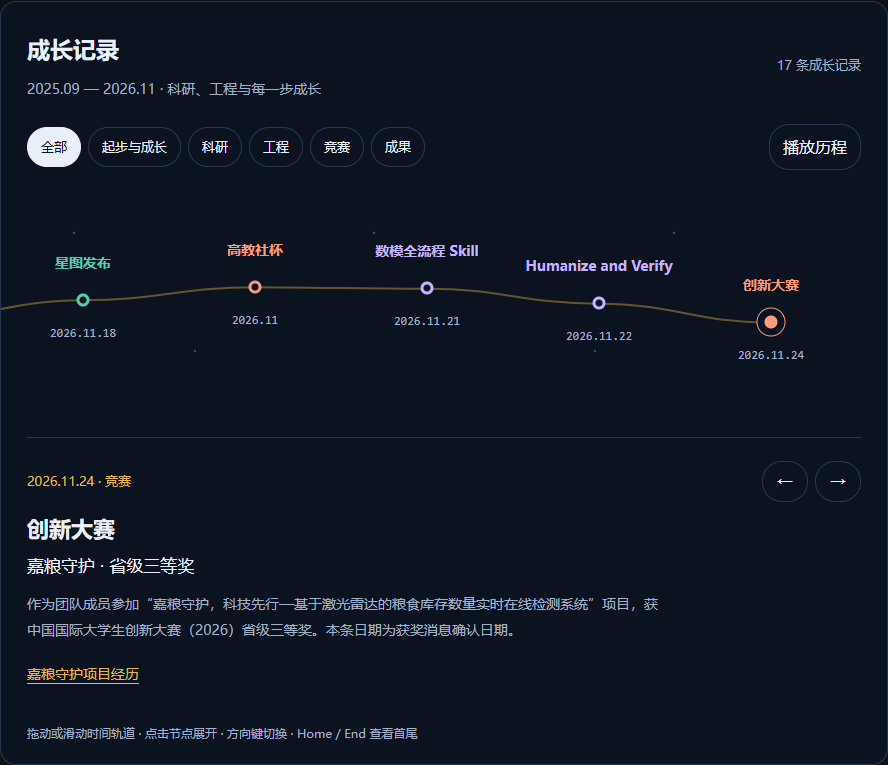
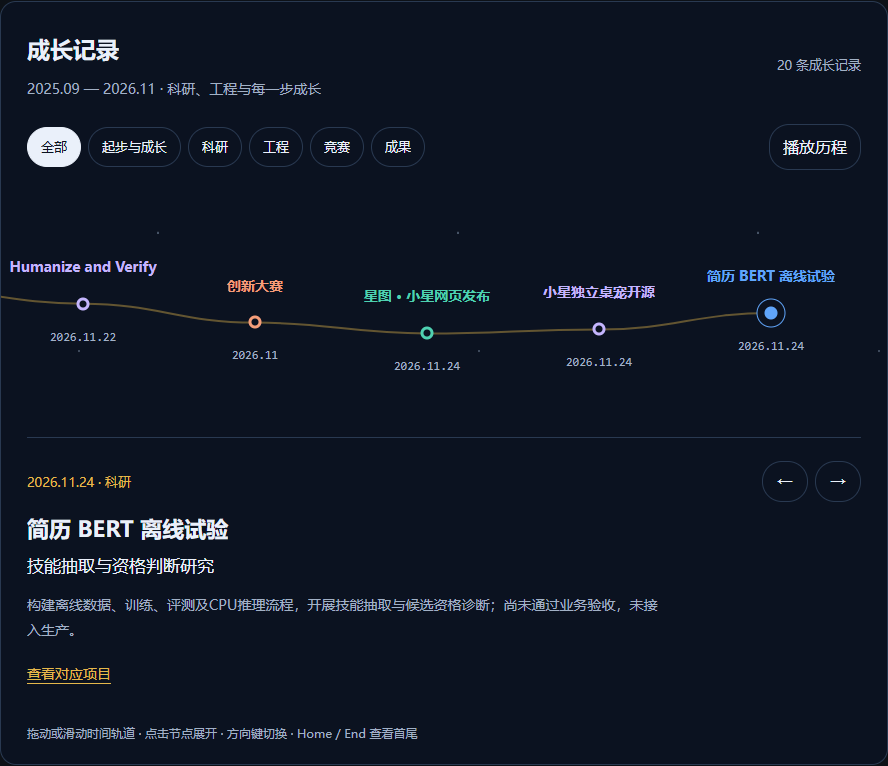
Refresh capability graph and timeline with Xiaoxing and offline BERT research

diff --git a/index.html b/index.html
@@ -34,4 +34,4 @@ body a{color:#0969da}body a:focus-visible{outline:2px solid currentColor;outline
 <picture><source media="(prefers-color-scheme: dark)" srcset="assets/badges/neo4j.svg"/><img alt="Neo4j" src="assets/badges/neo4j-light.svg"/></picture>
 <picture><source media="(prefers-color-scheme: dark)" srcset="assets/badges/docker.svg"/><img alt="Docker" src="assets/badges/docker-light.svg"/></picture>
 <picture><source media="(prefers-color-scheme: dark)" srcset="assets/badges/latex.svg"/><img alt="LaTeX" src="assets/badges/latex-light.svg"/></picture>
-</div></section><section id="education"><h2>教育背景</h2><p><b>河南工业大学　计算机科学与技术（本科）｜2025.09—2029.06（预计）</b></p><p><a href="https://cs.haut.edu.cn/">复杂性科学研究院</a>「<a href="https://cs.haut.edu.cn/info/1421/8304.htm">飞鸟创新实验班</a>」2025 级首届成员，导师刘广恩。</p><p>学生工作：信息学院第二十三届学生会学习部成员；明德书院校运会铅球队队长。</p><p>社会实践：参加学校组织的暑期“三下乡”与寒假返乡宣传。</p></section><section aria-label="公开经历与技术能力三维关系图" class="graph-section" id="ability-graph"><div class="graph-bar"><div><h2>项目与技术能力图谱</h2><p>拖动旋转 · 滚轮缩放 · 点击节点查看对应经历</p></div><div class="graph-controls"><button aria-pressed="false" id="graph-pause" type="button">暂停旋转</button><button id="graph-reset" type="button">复位</button><button aria-label="放大图谱" id="graph-zoom-in" type="button">＋</button><button aria-label="缩小图谱" id="graph-zoom-out" type="button">－</button></div></div><div class="graph-body"><div class="graph-viewport" id="graph-viewport"><div class="graph-message" id="graph-message">正在加载空间图谱…</div></div><aside aria-live="polite" class="graph-panel"><span class="node-type" id="node-type">公开项目与实际使用技术</span><h3 id="node-name">王佳豪</h3><p id="node-description">选择节点可查看项目与技术的对应关系。下方保留完整的职责、技术和成果介绍。</p><a href="#projects" id="node-link">查看项目经历</a><div class="node-shortcuts"><button data-select="xingtu" type="button">星图</button><button data-select="eeg" type="button">脑电研究</button><button data-select="aic" type="button">多模态检测</button><button data-select="quantum" type="button">量子编译</button><button data-select="landslide" type="button">边坡哨兵</button><button data-select="changtu" type="button">畅途灵控</button><button data-select="class" type="button">Class</button><button data-select="mcm-skill" type="button">数模 Skill</button><button data-select="jialiang" type="button">嘉粮守护</button><button data-select="humanize-skill" type="button">写作与代码 Skill</button></div></aside></div><div class="graph-filter"><button aria-pressed="true" data-filter="all" type="button">全部</button><button aria-pressed="false" data-filter="research" type="button">科研</button><button aria-pressed="false" data-filter="engineering" type="button">工程</button><button aria-pressed="false" data-filter="algorithms" type="button">算法</button><small>连线表示项目与技术关联，不表示能力评分</small></div></section><section id="research"><h2>科研经历</h2><article class="project" id="project-eeg"><h3>跨被试脑电情感识别</h3><p class="label"><b>科研进行中</b>　｜　角色：独立研究</p><p class="label"><b>技术栈：</b>Python · PyTorch · Mamba / SSM · Transformer · 图结构建模</p><p>面向脑电情感识别中的跨被试泛化问题，开展深度时空特征建模研究。</p><ul><li>基于状态空间模型、注意力机制与图结构建模技术开展研究，完成数据处理、训练评估及对照实验。</li><li>在 DEAP、SEED 数据集上开展 LOSO 跨被试评估，维护实验配置、结果归档与分析记录，推进论文撰写。</li></ul></article></section><section class="project-no-art" id="projects"><h2>项目经历</h2><article class="entry" id="project-ssvep"><h3>AIC · 脑电信号分类（SSVEP）</h3><p>围绕稳态视觉诱发电位（SSVEP）脑电信号分类，开展信号预处理、特征建模、分类器训练与评测；负责实验对照、结果复核及可复现归档。比赛进行中。</p></article><article class="project" id="project-xingtu"><h3><a href="https://github.com/Talent-Star-Map/XINGTU">星图 · 岗位能力图谱动态演化与分析系统</a></h3><p class="label"><b>团队项目 · 持续开发与迭代</b>　｜　角色：业务模块、三维图谱与交互开发，系统验证及部署发布</p><p class="label"><b>参赛经历：</b>“揭榜挂帅”赛项、第三届“讯飞杯”AI+教育方向。</p><p class="label"><b>技术栈：</b>React · TypeScript · FastAPI · SQLAlchemy · MySQL · MongoDB · Neo4j · Docker</p><p>面向岗位技能分析与人岗匹配的平台，持续迭代岗位信息、能力图谱、简历管理和匹配分析；团队近期新增 AI 模拟面试、反馈报告 PDF 导出及企业认证审核功能。</p><ul><li>负责求职端个人中心、简历管理及企业信息相关模块开发。</li><li>开发个人经历三维技术图谱，将简历经历、技术节点与原文证据关联，支持节点选择、经历筛选及旋转缩放；完成鉴权接口联调与生产部署。</li><li>在简历与岗位描述解析中实现大模型结构化信息抽取、原文证据校验与规则校验，结合多源信息比对及置信度评分，识别缺乏原文依据的技能信息。</li><li>承担测试文档编制、论文补充实验与结果复核，核对数据划分、实验记录及论文图表的一致性。</li><li>完成新服务器选型与存储扩容，部署前端、后端、三类数据库和采集程序共 6 个容器；核验数据库迁移结果，配置备份并编写团队 SSH 自动连接工具。</li><li>完成首页、连续星河登录动画与全站品牌统一，覆盖三角色导航、深浅主题及移动端；构建前端发布镜像，核验线上静态资源和三角色真实登录后完成部署，保留可回滚版本。</li></ul><p><a href="https://47.120.76.16/">在线平台</a></p><p>新增小星连续透明视频网页交互与媒体带宽优化；另开展离线简历 BERT 技能抽取、资格判断及评测流程，当前尚未接入生产。</p></article><article class="project" id="project-landslide"><h3><a href="https://github.com/Dsegnr/landslide-sentinel-web">边坡哨兵 · 滑坡监测与分级预警系统</a></h3><p class="label"><b>团队项目 · 独立完成软件系统开发</b></p><p class="label"><b>技术栈：</b>Python · React · TypeScript · FastAPI · SQLAlchemy · 三维可视化</p><p>围绕边坡监测场景，结合监测数据分析与 Web 系统，提供监测点管理、设备状态、分级预警、历史记录及三维地形展示。</p><ul><li>除硬件外，独立完成前端、后端、数据库及核心软件算法开发，打通监测数据处理、分级预警、历史记录与三维可视化，完成系统测试及部署。</li><li>整理独立 Web 源码快照与演示说明；三维场景用于监测与地形关系展示。相关公开数据成果见下方 ScienceDB 条目。</li></ul><p><a href="https://github.com/Dsegnr/landslide-sentinel-web/blob/main/docs/DEMO.md">演示与本地运行说明</a></p></article><article class="project" id="project-changtu"><h3><a href="https://github.com/Dsegnr/changtu-lingkong">畅途灵控 · 多路口交通协同与 GIS 决策工作台</a></h3><p class="label"><b>路网仿真、控制验证与工作台开发 · 阶段归档</b></p><p class="label"><b>技术栈：</b>Python · SUMO · SuperMap GIS · React · TypeScript</p><p>延续早期畅途灵控方向，研究多路口交通信号协同，构建策略对照、地图回放与证据追溯工作台。</p><ul><li>构建连通路网仿真，跟踪同车跨路口身份与全程耗时；比较固定、压力与联合控制，分析下游接收空间、回堵及逐车损益。</li><li>开发地图回放、相位时间线、方案对照及任务记录；实现资源路径隔离、哈希校验、任务存储及 SuperMap 空间查询适配。</li><li>公开正式前端及可迁移模块源码；完整回放资产和第三方 SDK 未分发，现场验证尚未完成。</li></ul></article><article class="project" id="project-aic"><h3><a href="https://github.com/Dsegnr/aic2026-multimodal-detection">城市场景视觉多模态目标检测</a></h3><p class="label"><b>AIC 省赛三等奖</b>　｜　角色：参赛成员</p><p class="label"><b>技术栈：</b>PyTorch · D-FINE · YOLO · 多模态融合</p><p>全球校园人工智能算法精英大赛“面向城市场景的视觉多模态目标检测”赛题项目。</p><ul><li>围绕可见光、红外与深度信息开展多模态目标检测研究，完成数据对齐、特征融合与模型评测；获省赛三等奖。</li></ul></article><article class="project" id="project-humanize"><h3><a href="https://github.com/Dsegnr/humanize-and-verify">Humanize and Verify · 代码与写作成果复核 Skill</a></h3><p class="label"><b>个人构建 · 已开源</b>　｜　Agent Skill · 中文 / English</p><p>将软件登记、课程工程与科研写作中的实践经验整理成独立 Agent Skill，覆盖代码注释整理、中英文表达改进与交付材料一致性复核。</p><ul><li>设计代码、写作、交付材料三个模块，保留程序行为、技术事实和真实来源；提供安装说明、案例与合成示例。</li></ul></article><article class="project" id="project-secops"><h3><a href="https://github.com/Dsegnr/sentinel-secops">Sentinel · 安全研判与防御工作台</a></h3><p class="label"><b>个人项目 · 原型持续完善中</b></p><p class="label"><b>技术栈：</b>Python · FastAPI · Jinja2 · PowerShell · pytest</p><p>面向个人与小团队的本地安全研判工具原型，提供命令行和 Web 工作台，集成公开情报查询、证据报告、主机安全基线检查及资产与告警管理。</p><ul><li>实现域名／URL、IP 与邮件分析、结构化报告生成、SHA-256 证据清单导出，以及案件归档、资产与告警管理；支持 Windows 安全基线比对、加固脚本审阅与可选的大模型报告解释。</li><li>公开版本包含程序与测试，不含个人知识库、案件或实际配置。</li></ul></article><article class="project" id="project-quantum"><h3><a href="https://github.com/Dsegnr/ccf-quantum-compiler">噪声自适应量子编译器</a></h3><p class="label"><b>CCF 量旋杯 · 算法赛道</b>　｜　角色：算法实现与评测</p><p class="label"><b>技术栈：</b>Python · Cirq · SABRE · NISQ</p><p>基于 SABRE 映射算法，面向 NISQ 硬件开展量子线路布局与路由的噪声自适应优化。</p><ul><li>实现噪声感知路由、多策略初始布局与正反向交替优化；公开题评测综合评分 0.7550。</li></ul></article><article class="project" id="project-modeling"><h3><a href="https://github.com/Dsegnr/math-modeling">数学建模与工具</a></h3><p class="label"><b>技术栈：</b>Python · 几何定位 · 时序预测 · 蒙特卡洛模拟 · 优化建模</p><div class="modeling-event"><h4><a href="https://github.com/Dsegnr/math-modeling/tree/main/cumcm-2026">高教社杯 2026 · B 题</a></h4><p class="label"><b>河南赛区省级一等奖</b></p><p>无线电干扰源的快速自动定位与清除。担任队长，围绕测向定位、主动观测点设计、覆盖证书与顺路清除开展建模与算法实现；六局正式测试中，问题三清除 35/35 个源，问题四清除 37/37 个源。</p></div><div class="modeling-event"><h4><a href="https://github.com/Dsegnr/math-modeling/tree/main/apmcm-2026">APMCM 2026 · A 题</a></h4><p class="label"><b>中文赛项 · 本科组二等奖</b></p><p>自来水厂水质预测与评估。担任队长，负责问题建模、算法实现、结果验证与论文统稿，运用时序预测、时滞分析和风险评价方法完成水质建模。</p></div><div class="modeling-event"><h4><a href="https://github.com/Dsegnr/math-modeling/tree/main/huashubei-2026">华数杯 2026 · A 题</a></h4><p class="label"><b>本科生组全国三等奖</b></p><p>微构体中填充导电介质的仿真优化。担任队长，负责建模、算法实现、结果验证与论文统稿，结合三维连通判定、蒙特卡洛模拟、置信区间估计与成本优化求解。</p></div><div class="modeling-event" id="project-modeling-skill"><h4 id="project-mcm-skill"><a href="https://github.com/Dsegnr/mcm-contest-command">数模竞赛全流程 Skill · mcm-contest-command</a></h4><p class="label"><b>个人构建 · 已开源</b>　｜　Python · SQLite · AI Skill</p><p>基于数模竞赛实践，自主构建并开源覆盖读题、选题、建模、实验验证、论文写作与提交整理的 AI Skill；配套 Python CLI，以 SQLite 维护实验、结论、审查与决策记录，并通过文件哈希检查结果与提交材料的变动。</p><p>提供安装说明与可运行示例；Windows / Linux、Python 3.10 / 3.12 四组自动测试通过。</p></div></article><article class="project" id="project-class"><h3><a href="https://github.com/Dsegnr/Class">Class · 班级事务空间</a></h3><p class="label"><b>个人项目 · 需求、全栈开发与部署维护</b></p><p class="label"><b>技术栈：</b>React · TypeScript · FastAPI · SQLAlchemy · SQLite / MySQL</p><p>面向班级材料收集、审核与日常协作的小型 Web 应用。</p><ul><li>完成任务发布、材料提交与审核、原件批量导出、抽签、值日和通知功能，承担需求整理、前后端开发、测试与部署维护。</li><li>公开脱敏源码与虚构示例；正式站点需授权登录，账号密码、真实名册及学生材料不公开。</li></ul><p><a href="https://47.105.102.3/collect/">班级站点（需授权登录）</a></p></article><article class="project" id="project-jialiang"><h3>嘉粮守护 · 粮食库存数量实时在线检测系统</h3><p class="label"><b>中国国际大学生创新大赛（2026）省级三等奖</b>　｜　角色：团队成员</p><p>参赛项目全称为“嘉粮守护，科技先行—基于激光雷达的粮食库存数量实时在线检测系统”，参加高教主赛道本科生创意组。团队以激光雷达三维测量和智能视频分析为核心，面向粮仓库存数量检测、异常预警与远程监管需求开展项目。</p></article><article class="project" id="project-xinling"><h3><a href="https://github.com/Dsegnr/xinling-mental-health">心聆 · 青少年心理健康多模态智能筛查平台</a></h3><p class="label"><b>方案设计</b>　｜　角色：项目负责人</p><p class="label"><b>方案涉及技术：</b>脑电采集 · 跨被试建模 · 联邦学习</p><p>面向青少年心理健康筛查需求，设计多模态智能筛查平台方案。</p><ul><li>负责项目整体方案与技术路线设计，完成 22 页项目计划书。</li></ul></article><article class="project" id="project-xiaoxing"><h3><a href="https://github.com/Dsegnr/xiaoxing-desktop">小星 · 独立桌面伴侣</a></h3><p>独立构建 Electron 透明视频桌宠，提供16段正式动作、共享状态机与播放器；支持大小、暂停、自动散步、托盘恢复及动作包配置，无需星图账号、后端或 API 密钥。</p></article></section><picture class="art-divider"><source media="(prefers-color-scheme:dark)" srcset="assets/separator.svg"/><img alt="脑电波形与知识关联装饰" height="125" loading="lazy" src="assets/separator-light.svg" width="1200"/></picture><section id="research-data"><h2>科研数据成果</h2><p>以<b>第一作者</b>在 Science Data Bank 发布《三峡库区白家包滑坡2017–2024年监测数据与双时间尺度分级预警方法的复现数据与代码》（V1，2026.10.14），整理监测资料、处理结果与复现材料。</p><p><a href="https://doi.org/10.57760/sciencedb.014lj">DOI：10.57760/sciencedb.014lj</a> · <a href="https://www.scidb.cn/detail?dataSetId=7bc8827743a441cc9d881e3f7d181a16">数据集页面</a></p></section><section id="honors"><h2>竞赛与荣誉</h2><ul class="honor"><li id="honor-innovation">中国国际大学生创新大赛（2026）：省级三等奖｜嘉粮守护 · 团队成员</li><li id="honor-cumcm">高教社杯全国大学生数学建模竞赛：河南赛区省级一等奖｜2026　<a href="https://github.com/Dsegnr/math-modeling/tree/main/cumcm-2026">论文与代码</a></li><li>蓝桥杯全国软件和信息技术专业人才大赛：C/C++ 程序设计大学 B 组河南赛区一等奖、全国总决赛三等奖｜2026</li><li>全球校园人工智能算法精英大赛（AIC）多模态目标检测赛项：省赛三等奖｜2026</li><li>APMCM 亚太地区大学生数学建模竞赛（中文赛项）：本科组二等奖｜2026　<a href="https://github.com/Dsegnr/math-modeling/tree/main/apmcm-2026">论文与代码</a></li><li>“华数杯”全国大学生数学建模竞赛：本科生组全国三等奖｜2026　<a href="https://github.com/Dsegnr/math-modeling/tree/main/huashubei-2026">论文与代码</a></li><li>“挑战杯”院赛二等奖｜2026</li><li>河南工业大学 2025 年度“三好学生”｜2026.05</li></ul></section><section><h2>证书</h2><ul><li>全国大学英语四级（CET-4）：497 分。</li><li>工业互联网平台开发工程师（中级）。</li></ul></section><section id="software-copyright"><h2>软件著作权</h2><p>5 项计算机软件著作权登记申请已由中国版权保护中心受理，其中 3 项列第一著作权人，2 项列第六著作权人。</p><ul><li>星图智能简历解析与简历管理软件 V1.0 ｜ <strong>第一著作权人</strong> ｜ 2026.11.02</li><li>滑坡多传感器融合与涌浪风险估算软件 V1.0 ｜ <strong>第一著作权人</strong> ｜ 2026.11.02</li><li>边坡哨兵滑坡灾害协同感知与预警系统 V1.0 ｜ <strong>第一著作权人</strong> ｜ 2026.11.02</li><li>企业岗位能力图谱演化分析与智能匹配系统 V1.0 ｜ 第六著作权人 ｜ 2026.11.02</li><li>面向求职者的智能人岗匹配与诊断系统 V1.0 ｜ 第六著作权人 ｜ 2026.11.03</li></ul></section><section><h2>其他参赛经历</h2><ul><li id="competition-market">“正大杯”全国大学生市场调查与分析大赛：个人知识赛网考87分合格，团队实践赛筹备中。</li><li>AIC 脑电信号分类（SSVEP）｜参赛中｜2026</li><li>中国高校计算机大赛 · 团体程序设计天梯赛｜2026 参赛经历</li></ul></section><section><h2>公开仓库与作品</h2><ul><li><a href="https://github.com/Dsegnr/humanize-and-verify">humanize-and-verify</a>　独立 Agent Skill：代码、中英文写作与交付材料复核。</li><li><a href="https://github.com/Dsegnr/changtu-lingkong">changtu-lingkong</a>　畅途灵控 · 多路口交通协同与 GIS 决策工作台</li><li><a href="https://github.com/Dsegnr/Class">Class</a>　Class · 班级事务空间</li><li><a href="https://github.com/Dsegnr/landslide-sentinel-web">landslide-sentinel-web</a>　边坡哨兵 Web：多传感器监测、分级预警与三维情景展示；仓库附在线演示及普通账号。</li><li><a href="https://github.com/Dsegnr/sentinel-secops">sentinel-secops</a>　Sentinel 本地安全研判与防御工具原型，包含 CLI、Web 工作台与测试。</li><li><a href="https://github.com/Dsegnr/aic2026-multimodal-detection">aic2026-multimodal-detection</a>　AIC 省赛三等奖项目：训练、推理、评测与历史实验配置。</li><li><a href="https://github.com/Talent-Star-Map/XINGTU">Talent-Star-Map/XINGTU</a>　星图 · 岗位能力图谱动态演化与分析系统（团队仓库，本人为开发者之一）</li><li><a href="https://github.com/Dsegnr/mcm-contest-command">mcm-contest-command</a>　个人构建的数模竞赛全流程 AI Skill 与 Python CLI，覆盖读题、建模、证据记录、写作与提交检查。</li><li><a href="https://github.com/Dsegnr/math-modeling">math-modeling</a>　数学建模竞赛作品：高教社杯、APMCM 与华数杯的论文、代码、数据与结果表</li><li><a href="https://github.com/Dsegnr/ccf-quantum-compiler">ccf-quantum-compiler</a>　噪声自适应量子编译器（2026 CCF 量旋杯 · 算法赛道，含 21 页作品说明文档）</li><li><a href="https://github.com/Dsegnr/xinling-mental-health">xinling-mental-health</a>　心聆 · 青少年心理健康多模态智能筛查平台（项目计划书、LaTeX 源码与配图）</li><li><a href="https://github.com/Dsegnr/Dsegnr.github.io">Dsegnr.github.io</a>　本主页与简历的源码</li></ul></section><section aria-labelledby="growth-heading" class="gt" id="growth-timeline"><div class="gt-header"><div><h2 id="growth-heading">成长记录</h2><p>2025.09 — 2026.11 · 科研、工程与每一步成长</p></div><span class="gt-count" data-gt="count">17 条成长记录</span></div><div class="gt-toolbar" data-gt="toolbar" hidden=""><div aria-label="按经历类型筛选" class="gt-filters" data-gt="filters" role="group"></div><button aria-pressed="false" class="gt-play" data-gt="play" type="button">播放历程</button></div><div aria-label="成长时间轨道，可左右滑动" class="gt-scroller" data-gt="scroller" hidden="" tabindex="0"><div aria-label="选择成长节点" class="gt-track" data-gt="track" role="group"></div></div><div aria-atomic="true" aria-live="polite" class="gt-detail" data-gt="detail" hidden="" id="growth-detail"><div class="gt-detail-head"><span class="gt-detail-date" data-gt="date"></span><div class="gt-steps"><button aria-label="上一条经历" class="gt-step" data-gt="previous" type="button">←</button><button aria-label="下一条经历" class="gt-step" data-gt="next" type="button">→</button></div></div><h3 data-gt="title"></h3><p class="gt-subtitle" data-gt="subtitle"></p><p class="gt-description" data-gt="description"></p><a data-gt="link">查看对应经历</a></div><ol class="gt-fallback" data-gt="fallback"><li><time>2025.09</time>　<a href="#education">入学</a>：河南工业大学 · 计算机科学与技术</li><li><time>2025.09</time>　<a href="#project-eeg">脑电研究起步</a>：跨被试脑电情感识别</li><li><time>2026.04</time>　<a href="#education">体育文化节</a>：男子引体向上三等奖</li><li><time>2026.05</time>　<a href="#honors">三好学生</a>：2025 年度校级荣誉</li><li><time>2026.05</time>　<a href="#honors">蓝桥杯省赛</a>：河南赛区一等奖</li><li><time>2026.06</time>　<a href="https://github.com/Dsegnr/math-modeling/tree/main/apmcm-2026">APMCM</a>：中文赛项 · 本科组二等奖</li><li><time>2026.06.17</time>　<a href="#honors">蓝桥杯国赛</a>：全国总决赛三等奖</li><li><time>2026.07.22</time>　<a href="#honors">工业互联网</a>：平台开发工程师（中级）</li><li><time>2026.08</time>　<a href="https://github.com/Dsegnr/math-modeling/tree/main/huashubei-2026">华数杯</a>：本科生组全国三等奖</li><li><time>2026.10.14</time>　<a href="https://doi.org/10.57760/sciencedb.014lj">ScienceDB</a>：第一作者数据成果 · V1</li><li><time>2026.11</time>　<a href="#project-aic">AIC 多模态检测</a>：省赛三等奖</li><li><time>2026.11.02–03</time>　<a href="#software-copyright">五项软著受理</a>：三项列第一著作权人</li><li><time>2026.11.18</time>　<a href="#project-xingtu">星图发布</a>：首页、星河登录与品牌统一</li><li><time>2026.11</time>　<a href="https://github.com/Dsegnr/math-modeling/tree/main/cumcm-2026">高教社杯</a>：河南赛区省级一等奖</li><li><time>2026.11.21</time>　<a href="https://github.com/Dsegnr/mcm-contest-command">数模全流程 Skill</a>：Agent Skill 与 Python CLI 开源</li><li><time>2026.11.22</time>　<a href="#project-humanize">Humanize and Verify</a>：代码与写作成果复核 Skill 开源</li><li><time>2026.11</time>　<a href="#project-jialiang">创新大赛</a>：嘉粮守护 · 省级三等奖</li></ol><p class="gt-help" data-gt="help" hidden="">拖动或滑动时间轨道 · 点击节点展开 · 方向键切换 · Home / End 查看首尾</p></section><footer>王佳豪 · Dsegnr　｜　更新于 2026.11.24</footer></main><script type="importmap">{"imports":{"three":"./vendor/three.module.js"}}</script><script src="assets/ability-graph.js" type="module"></script><script src="assets/growth-timeline.js" type="module"></script></body></html>
+</div></section><section id="education"><h2>教育背景</h2><p><b>河南工业大学　计算机科学与技术（本科）｜2025.09—2029.06（预计）</b></p><p><a href="https://cs.haut.edu.cn/">复杂性科学研究院</a>「<a href="https://cs.haut.edu.cn/info/1421/8304.htm">飞鸟创新实验班</a>」2025 级首届成员，导师刘广恩。</p><p>学生工作：信息学院第二十三届学生会学习部成员；明德书院校运会铅球队队长。</p><p>社会实践：参加学校组织的暑期“三下乡”与寒假返乡宣传。</p></section><section aria-label="公开经历与技术能力三维关系图" class="graph-section" id="ability-graph"><div class="graph-bar"><div><h2>项目与技术能力图谱</h2><p>拖动旋转 · 滚轮缩放 · 点击节点查看对应经历</p></div><div class="graph-controls"><button aria-pressed="false" id="graph-pause" type="button">暂停旋转</button><button id="graph-reset" type="button">复位</button><button aria-label="放大图谱" id="graph-zoom-in" type="button">＋</button><button aria-label="缩小图谱" id="graph-zoom-out" type="button">－</button></div></div><div class="graph-body"><div class="graph-viewport" id="graph-viewport"><div class="graph-message" id="graph-message">正在加载空间图谱…</div></div><aside aria-live="polite" class="graph-panel"><span class="node-type" id="node-type">公开项目与实际使用技术</span><h3 id="node-name">王佳豪</h3><p id="node-description">选择节点可查看项目与技术的对应关系。下方保留完整的职责、技术和成果介绍。</p><a href="#projects" id="node-link">查看项目经历</a><div class="node-shortcuts"><button data-select="xingtu" type="button">星图</button><button data-select="eeg" type="button">脑电研究</button><button data-select="aic" type="button">多模态检测</button><button data-select="quantum" type="button">量子编译</button><button data-select="landslide" type="button">边坡哨兵</button><button data-select="changtu" type="button">畅途灵控</button><button data-select="class" type="button">Class</button><button data-select="mcm-skill" type="button">数模 Skill</button><button data-select="jialiang" type="button">嘉粮守护</button><button data-select="humanize-skill" type="button">写作与代码 Skill</button><button data-select="xiaoxing" type="button">小星桌宠</button><button data-select="resume-bert" type="button">简历 BERT</button></div></aside></div><div class="graph-filter"><button aria-pressed="true" data-filter="all" type="button">全部</button><button aria-pressed="false" data-filter="research" type="button">科研</button><button aria-pressed="false" data-filter="engineering" type="button">工程</button><button aria-pressed="false" data-filter="algorithms" type="button">算法</button><small>连线表示项目与技术关联，不表示能力评分</small></div></section><section id="research"><h2>科研经历</h2><article class="project" id="project-eeg"><h3>跨被试脑电情感识别</h3><p class="label"><b>科研进行中</b>　｜　角色：独立研究</p><p class="label"><b>技术栈：</b>Python · PyTorch · Mamba / SSM · Transformer · 图结构建模</p><p>面向脑电情感识别中的跨被试泛化问题，开展深度时空特征建模研究。</p><ul><li>基于状态空间模型、注意力机制与图结构建模技术开展研究，完成数据处理、训练评估及对照实验。</li><li>在 DEAP、SEED 数据集上开展 LOSO 跨被试评估，维护实验配置、结果归档与分析记录，推进论文撰写。</li></ul></article></section><section class="project-no-art" id="projects"><h2>项目经历</h2><article class="entry" id="project-ssvep"><h3>AIC · 脑电信号分类（SSVEP）</h3><p>围绕稳态视觉诱发电位（SSVEP）脑电信号分类，开展信号预处理、特征建模、分类器训练与评测；负责实验对照、结果复核及可复现归档。比赛进行中。</p></article><article class="project" id="project-xingtu"><h3><a href="https://github.com/Talent-Star-Map/XINGTU">星图 · 岗位能力图谱动态演化与分析系统</a></h3><p class="label"><b>团队项目 · 持续开发与迭代</b>　｜　角色：业务模块、三维图谱与交互开发，系统验证及部署发布</p><p class="label"><b>参赛经历：</b>“揭榜挂帅”赛项、第三届“讯飞杯”AI+教育方向。</p><p class="label"><b>技术栈：</b>React · TypeScript · FastAPI · SQLAlchemy · MySQL · MongoDB · Neo4j · Docker</p><p>面向岗位技能分析与人岗匹配的平台，持续迭代岗位信息、能力图谱、简历管理和匹配分析；团队近期新增 AI 模拟面试、反馈报告 PDF 导出及企业认证审核功能。</p><ul><li>负责求职端个人中心、简历管理及企业信息相关模块开发。</li><li>开发个人经历三维技术图谱，将简历经历、技术节点与原文证据关联，支持节点选择、经历筛选及旋转缩放；完成鉴权接口联调与生产部署。</li><li>在简历与岗位描述解析中实现大模型结构化信息抽取、原文证据校验与规则校验，结合多源信息比对及置信度评分，识别缺乏原文依据的技能信息。</li><li>承担测试文档编制、论文补充实验与结果复核，核对数据划分、实验记录及论文图表的一致性。</li><li>完成新服务器选型与存储扩容，部署前端、后端、三类数据库和采集程序共 6 个容器；核验数据库迁移结果，配置备份并编写团队 SSH 自动连接工具。</li><li>完成首页、连续星河登录动画与全站品牌统一，覆盖三角色导航、深浅主题及移动端；构建前端发布镜像，核验线上静态资源和三角色真实登录后完成部署，保留可回滚版本。</li></ul><p><a href="https://47.120.76.16/">在线平台</a></p><p>新增小星连续透明视频网页交互与媒体带宽优化；另开展离线简历 BERT 技能抽取、资格判断及评测流程，当前尚未接入生产。</p></article><article class="project" id="project-landslide"><h3><a href="https://github.com/Dsegnr/landslide-sentinel-web">边坡哨兵 · 滑坡监测与分级预警系统</a></h3><p class="label"><b>团队项目 · 独立完成软件系统开发</b></p><p class="label"><b>技术栈：</b>Python · React · TypeScript · FastAPI · SQLAlchemy · 三维可视化</p><p>围绕边坡监测场景，结合监测数据分析与 Web 系统，提供监测点管理、设备状态、分级预警、历史记录及三维地形展示。</p><ul><li>除硬件外，独立完成前端、后端、数据库及核心软件算法开发，打通监测数据处理、分级预警、历史记录与三维可视化，完成系统测试及部署。</li><li>整理独立 Web 源码快照与演示说明；三维场景用于监测与地形关系展示。相关公开数据成果见下方 ScienceDB 条目。</li></ul><p><a href="https://github.com/Dsegnr/landslide-sentinel-web/blob/main/docs/DEMO.md">演示与本地运行说明</a></p></article><article class="project" id="project-changtu"><h3><a href="https://github.com/Dsegnr/changtu-lingkong">畅途灵控 · 多路口交通协同与 GIS 决策工作台</a></h3><p class="label"><b>路网仿真、控制验证与工作台开发 · 阶段归档</b></p><p class="label"><b>技术栈：</b>Python · SUMO · SuperMap GIS · React · TypeScript</p><p>延续早期畅途灵控方向，研究多路口交通信号协同，构建策略对照、地图回放与证据追溯工作台。</p><ul><li>构建连通路网仿真，跟踪同车跨路口身份与全程耗时；比较固定、压力与联合控制，分析下游接收空间、回堵及逐车损益。</li><li>开发地图回放、相位时间线、方案对照及任务记录；实现资源路径隔离、哈希校验、任务存储及 SuperMap 空间查询适配。</li><li>公开正式前端及可迁移模块源码；完整回放资产和第三方 SDK 未分发，现场验证尚未完成。</li></ul></article><article class="project" id="project-aic"><h3><a href="https://github.com/Dsegnr/aic2026-multimodal-detection">城市场景视觉多模态目标检测</a></h3><p class="label"><b>AIC 省赛三等奖</b>　｜　角色：参赛成员</p><p class="label"><b>技术栈：</b>PyTorch · D-FINE · YOLO · 多模态融合</p><p>全球校园人工智能算法精英大赛“面向城市场景的视觉多模态目标检测”赛题项目。</p><ul><li>围绕可见光、红外与深度信息开展多模态目标检测研究，完成数据对齐、特征融合与模型评测；获省赛三等奖。</li></ul></article><article class="project" id="project-humanize"><h3><a href="https://github.com/Dsegnr/humanize-and-verify">Humanize and Verify · 代码与写作成果复核 Skill</a></h3><p class="label"><b>个人构建 · 已开源</b>　｜　Agent Skill · 中文 / English</p><p>将软件登记、课程工程与科研写作中的实践经验整理成独立 Agent Skill，覆盖代码注释整理、中英文表达改进与交付材料一致性复核。</p><ul><li>设计代码、写作、交付材料三个模块，保留程序行为、技术事实和真实来源；提供安装说明、案例与合成示例。</li></ul></article><article class="project" id="project-secops"><h3><a href="https://github.com/Dsegnr/sentinel-secops">Sentinel · 安全研判与防御工作台</a></h3><p class="label"><b>个人项目 · 原型持续完善中</b></p><p class="label"><b>技术栈：</b>Python · FastAPI · Jinja2 · PowerShell · pytest</p><p>面向个人与小团队的本地安全研判工具原型，提供命令行和 Web 工作台，集成公开情报查询、证据报告、主机安全基线检查及资产与告警管理。</p><ul><li>实现域名／URL、IP 与邮件分析、结构化报告生成、SHA-256 证据清单导出，以及案件归档、资产与告警管理；支持 Windows 安全基线比对、加固脚本审阅与可选的大模型报告解释。</li><li>公开版本包含程序与测试，不含个人知识库、案件或实际配置。</li></ul></article><article class="project" id="project-quantum"><h3><a href="https://github.com/Dsegnr/ccf-quantum-compiler">噪声自适应量子编译器</a></h3><p class="label"><b>CCF 量旋杯 · 算法赛道</b>　｜　角色：算法实现与评测</p><p class="label"><b>技术栈：</b>Python · Cirq · SABRE · NISQ</p><p>基于 SABRE 映射算法，面向 NISQ 硬件开展量子线路布局与路由的噪声自适应优化。</p><ul><li>实现噪声感知路由、多策略初始布局与正反向交替优化；公开题评测综合评分 0.7550。</li></ul></article><article class="project" id="project-modeling"><h3><a href="https://github.com/Dsegnr/math-modeling">数学建模与工具</a></h3><p class="label"><b>技术栈：</b>Python · 几何定位 · 时序预测 · 蒙特卡洛模拟 · 优化建模</p><div class="modeling-event"><h4><a href="https://github.com/Dsegnr/math-modeling/tree/main/cumcm-2026">高教社杯 2026 · B 题</a></h4><p class="label"><b>河南赛区省级一等奖</b></p><p>无线电干扰源的快速自动定位与清除。担任队长，围绕测向定位、主动观测点设计、覆盖证书与顺路清除开展建模与算法实现；六局正式测试中，问题三清除 35/35 个源，问题四清除 37/37 个源。</p></div><div class="modeling-event"><h4><a href="https://github.com/Dsegnr/math-modeling/tree/main/apmcm-2026">APMCM 2026 · A 题</a></h4><p class="label"><b>中文赛项 · 本科组二等奖</b></p><p>自来水厂水质预测与评估。担任队长，负责问题建模、算法实现、结果验证与论文统稿，运用时序预测、时滞分析和风险评价方法完成水质建模。</p></div><div class="modeling-event"><h4><a href="https://github.com/Dsegnr/math-modeling/tree/main/huashubei-2026">华数杯 2026 · A 题</a></h4><p class="label"><b>本科生组全国三等奖</b></p><p>微构体中填充导电介质的仿真优化。担任队长，负责建模、算法实现、结果验证与论文统稿，结合三维连通判定、蒙特卡洛模拟、置信区间估计与成本优化求解。</p></div><div class="modeling-event" id="project-modeling-skill"><h4 id="project-mcm-skill"><a href="https://github.com/Dsegnr/mcm-contest-command">数模竞赛全流程 Skill · mcm-contest-command</a></h4><p class="label"><b>个人构建 · 已开源</b>　｜　Python · SQLite · AI Skill</p><p>基于数模竞赛实践，自主构建并开源覆盖读题、选题、建模、实验验证、论文写作与提交整理的 AI Skill；配套 Python CLI，以 SQLite 维护实验、结论、审查与决策记录，并通过文件哈希检查结果与提交材料的变动。</p><p>提供安装说明与可运行示例；Windows / Linux、Python 3.10 / 3.12 四组自动测试通过。</p></div></article><article class="project" id="project-class"><h3><a href="https://github.com/Dsegnr/Class">Class · 班级事务空间</a></h3><p class="label"><b>个人项目 · 需求、全栈开发与部署维护</b></p><p class="label"><b>技术栈：</b>React · TypeScript · FastAPI · SQLAlchemy · SQLite / MySQL</p><p>面向班级材料收集、审核与日常协作的小型 Web 应用。</p><ul><li>完成任务发布、材料提交与审核、原件批量导出、抽签、值日和通知功能，承担需求整理、前后端开发、测试与部署维护。</li><li>公开脱敏源码与虚构示例；正式站点需授权登录，账号密码、真实名册及学生材料不公开。</li></ul><p><a href="https://47.105.102.3/collect/">班级站点（需授权登录）</a></p></article><article class="project" id="project-jialiang"><h3>嘉粮守护 · 粮食库存数量实时在线检测系统</h3><p class="label"><b>中国国际大学生创新大赛（2026）省级三等奖</b>　｜　角色：团队成员</p><p>参赛项目全称为“嘉粮守护，科技先行—基于激光雷达的粮食库存数量实时在线检测系统”，参加高教主赛道本科生创意组。团队以激光雷达三维测量和智能视频分析为核心，面向粮仓库存数量检测、异常预警与远程监管需求开展项目。</p></article><article class="project" id="project-xinling"><h3><a href="https://github.com/Dsegnr/xinling-mental-health">心聆 · 青少年心理健康多模态智能筛查平台</a></h3><p class="label"><b>方案设计</b>　｜　角色：项目负责人</p><p class="label"><b>方案涉及技术：</b>脑电采集 · 跨被试建模 · 联邦学习</p><p>面向青少年心理健康筛查需求，设计多模态智能筛查平台方案。</p><ul><li>负责项目整体方案与技术路线设计，完成 22 页项目计划书。</li></ul></article><article class="project" id="project-xiaoxing"><h3><a href="https://github.com/Dsegnr/xiaoxing-desktop">小星 · 独立桌面伴侣</a></h3><p>独立构建 Electron 透明视频桌宠，提供16段正式动作、共享状态机与播放器；支持大小、暂停、自动散步、托盘恢复及动作包配置，无需星图账号、后端或 API 密钥。</p></article></section><picture class="art-divider"><source media="(prefers-color-scheme:dark)" srcset="assets/separator.svg"/><img alt="脑电波形与知识关联装饰" height="125" loading="lazy" src="assets/separator-light.svg" width="1200"/></picture><section id="research-data"><h2>科研数据成果</h2><p>以<b>第一作者</b>在 Science Data Bank 发布《三峡库区白家包滑坡2017–2024年监测数据与双时间尺度分级预警方法的复现数据与代码》（V1，2026.10.14），整理监测资料、处理结果与复现材料。</p><p><a href="https://doi.org/10.57760/sciencedb.014lj">DOI：10.57760/sciencedb.014lj</a> · <a href="https://www.scidb.cn/detail?dataSetId=7bc8827743a441cc9d881e3f7d181a16">数据集页面</a></p></section><section id="honors"><h2>竞赛与荣誉</h2><ul class="honor"><li id="honor-innovation">中国国际大学生创新大赛（2026）：省级三等奖｜嘉粮守护 · 团队成员</li><li id="honor-cumcm">高教社杯全国大学生数学建模竞赛：河南赛区省级一等奖｜2026　<a href="https://github.com/Dsegnr/math-modeling/tree/main/cumcm-2026">论文与代码</a></li><li>蓝桥杯全国软件和信息技术专业人才大赛：C/C++ 程序设计大学 B 组河南赛区一等奖、全国总决赛三等奖｜2026</li><li>全球校园人工智能算法精英大赛（AIC）多模态目标检测赛项：省赛三等奖｜2026</li><li>APMCM 亚太地区大学生数学建模竞赛（中文赛项）：本科组二等奖｜2026　<a href="https://github.com/Dsegnr/math-modeling/tree/main/apmcm-2026">论文与代码</a></li><li>“华数杯”全国大学生数学建模竞赛：本科生组全国三等奖｜2026　<a href="https://github.com/Dsegnr/math-modeling/tree/main/huashubei-2026">论文与代码</a></li><li>“挑战杯”院赛二等奖｜2026</li><li>河南工业大学 2025 年度“三好学生”｜2026.05</li></ul></section><section><h2>证书</h2><ul><li>全国大学英语四级（CET-4）：497 分。</li><li>工业互联网平台开发工程师（中级）。</li></ul></section><section id="software-copyright"><h2>软件著作权</h2><p>5 项计算机软件著作权登记申请已由中国版权保护中心受理，其中 3 项列第一著作权人，2 项列第六著作权人。</p><ul><li>星图智能简历解析与简历管理软件 V1.0 ｜ <strong>第一著作权人</strong> ｜ 2026.11.02</li><li>滑坡多传感器融合与涌浪风险估算软件 V1.0 ｜ <strong>第一著作权人</strong> ｜ 2026.11.02</li><li>边坡哨兵滑坡灾害协同感知与预警系统 V1.0 ｜ <strong>第一著作权人</strong> ｜ 2026.11.02</li><li>企业岗位能力图谱演化分析与智能匹配系统 V1.0 ｜ 第六著作权人 ｜ 2026.11.02</li><li>面向求职者的智能人岗匹配与诊断系统 V1.0 ｜ 第六著作权人 ｜ 2026.11.03</li></ul></section><section><h2>其他参赛经历</h2><ul><li id="competition-market">“正大杯”全国大学生市场调查与分析大赛：个人知识赛网考87分合格，团队实践赛筹备中。</li><li>AIC 脑电信号分类（SSVEP）｜参赛中｜2026</li><li>中国高校计算机大赛 · 团体程序设计天梯赛｜2026 参赛经历</li></ul></section><section><h2>公开仓库与作品</h2><ul><li><a href="https://github.com/Dsegnr/humanize-and-verify">humanize-and-verify</a>　独立 Agent Skill：代码、中英文写作与交付材料复核。</li><li><a href="https://github.com/Dsegnr/changtu-lingkong">changtu-lingkong</a>　畅途灵控 · 多路口交通协同与 GIS 决策工作台</li><li><a href="https://github.com/Dsegnr/Class">Class</a>　Class · 班级事务空间</li><li><a href="https://github.com/Dsegnr/landslide-sentinel-web">landslide-sentinel-web</a>　边坡哨兵 Web：多传感器监测、分级预警与三维情景展示；仓库附在线演示及普通账号。</li><li><a href="https://github.com/Dsegnr/sentinel-secops">sentinel-secops</a>　Sentinel 本地安全研判与防御工具原型，包含 CLI、Web 工作台与测试。</li><li><a href="https://github.com/Dsegnr/aic2026-multimodal-detection">aic2026-multimodal-detection</a>　AIC 省赛三等奖项目：训练、推理、评测与历史实验配置。</li><li><a href="https://github.com/Talent-Star-Map/XINGTU">Talent-Star-Map/XINGTU</a>　星图 · 岗位能力图谱动态演化与分析系统（团队仓库，本人为开发者之一）</li><li><a href="https://github.com/Dsegnr/mcm-contest-command">mcm-contest-command</a>　个人构建的数模竞赛全流程 AI Skill 与 Python CLI，覆盖读题、建模、证据记录、写作与提交检查。</li><li><a href="https://github.com/Dsegnr/math-modeling">math-modeling</a>　数学建模竞赛作品：高教社杯、APMCM 与华数杯的论文、代码、数据与结果表</li><li><a href="https://github.com/Dsegnr/ccf-quantum-compiler">ccf-quantum-compiler</a>　噪声自适应量子编译器（2026 CCF 量旋杯 · 算法赛道，含 21 页作品说明文档）</li><li><a href="https://github.com/Dsegnr/xinling-mental-health">xinling-mental-health</a>　心聆 · 青少年心理健康多模态智能筛查平台（项目计划书、LaTeX 源码与配图）</li><li><a href="https://github.com/Dsegnr/Dsegnr.github.io">Dsegnr.github.io</a>　本主页与简历的源码</li></ul></section><section aria-labelledby="growth-heading" class="gt" id="growth-timeline"><div class="gt-header"><div><h2 id="growth-heading">成长记录</h2><p>2025.09 — 2026.11 · 科研、工程与每一步成长</p></div><span class="gt-count" data-gt="count">20 条成长记录</span></div><div class="gt-toolbar" data-gt="toolbar" hidden=""><div aria-label="按经历类型筛选" class="gt-filters" data-gt="filters" role="group"></div><button aria-pressed="false" class="gt-play" data-gt="play" type="button">播放历程</button></div><div aria-label="成长时间轨道，可左右滑动" class="gt-scroller" data-gt="scroller" hidden="" tabindex="0"><div aria-label="选择成长节点" class="gt-track" data-gt="track" role="group"></div></div><div aria-atomic="true" aria-live="polite" class="gt-detail" data-gt="detail" hidden="" id="growth-detail"><div class="gt-detail-head"><span class="gt-detail-date" data-gt="date"></span><div class="gt-steps"><button aria-label="上一条经历" class="gt-step" data-gt="previous" type="button">←</button><button aria-label="下一条经历" class="gt-step" data-gt="next" type="button">→</button></div></div><h3 data-gt="title"></h3><p class="gt-subtitle" data-gt="subtitle"></p><p class="gt-description" data-gt="description"></p><a data-gt="link">查看对应经历</a></div><ol class="gt-fallback" data-gt="fallback"><li><time>2025.09</time>　<a href="#education">入学</a>：河南工业大学 · 计算机科学与技术</li><li><time>2025.09</time>　<a href="#project-eeg">脑电研究起步</a>：跨被试脑电情感识别</li><li><time>2026.04</time>　<a href="#education">体育文化节</a>：男子引体向上三等奖</li><li><time>2026.05</time>　<a href="#honors">三好学生</a>：2025 年度校级荣誉</li><li><time>2026.05</time>　<a href="#honors">蓝桥杯省赛</a>：河南赛区一等奖</li><li><time>2026.06</time>　<a href="https://github.com/Dsegnr/math-modeling/tree/main/apmcm-2026">APMCM</a>：中文赛项 · 本科组二等奖</li><li><time>2026.06.17</time>　<a href="#honors">蓝桥杯国赛</a>：全国总决赛三等奖</li><li><time>2026.07.22</time>　<a href="#honors">工业互联网</a>：平台开发工程师（中级）</li><li><time>2026.08</time>　<a href="https://github.com/Dsegnr/math-modeling/tree/main/huashubei-2026">华数杯</a>：本科生组全国三等奖</li><li><time>2026.10.14</time>　<a href="https://doi.org/10.57760/sciencedb.014lj">ScienceDB</a>：第一作者数据成果 · V1</li><li><time>2026.11</time>　<a href="#project-aic">AIC 多模态检测</a>：省赛三等奖</li><li><time>2026.11.02–03</time>　<a href="#software-copyright">五项软著受理</a>：三项列第一著作权人</li><li><time>2026.11.18</time>　<a href="#project-xingtu">星图发布</a>：首页、星河登录与品牌统一</li><li><time>2026.11</time>　<a href="https://github.com/Dsegnr/math-modeling/tree/main/cumcm-2026">高教社杯</a>：河南赛区省级一等奖</li><li><time>2026.11.21</time>　<a href="https://github.com/Dsegnr/mcm-contest-command">数模全流程 Skill</a>：Agent Skill 与 Python CLI 开源</li><li><time>2026.11.22</time>　<a href="#project-humanize">Humanize and Verify</a>：代码与写作成果复核 Skill 开源</li><li><time>2026.11</time>　<a href="#project-jialiang">创新大赛</a>：嘉粮守护 · 省级三等奖</li><li><time>2026.11.24</time>　<a href="#project-xingtu">星图 · 小星网页发布</a>：连续透明视频交互</li><li><time>2026.11.24</time>　<a href="#project-xiaoxing">小星独立桌宠开源</a>：Electron · 可配置动作包</li><li><time>2026.11.24</time>　<a href="#project-xingtu">简历 BERT 离线试验</a>：技能抽取与资格判断研究</li></ol><p class="gt-help" data-gt="help" hidden="">拖动或滑动时间轨道 · 点击节点展开 · 方向键切换 · Home / End 查看首尾</p></section><footer>王佳豪 · Dsegnr　｜　更新于 2026.11.24</footer></main><script type="importmap">{"imports":{"three":"./vendor/three.module.js"}}</script><script src="assets/ability-graph.js" type="module"></script><script src="assets/growth-timeline.js" type="module"></script></body></html>

diff --git a/assets/ability-graph.js b/assets/ability-graph.js
@@ -7,6 +7,11 @@ const section=document.querySelector('#ability-graph');
 const reduced=matchMedia('(prefers-reduced-motion: reduce)');
 const COLORS={research:0x8bc8d7,engineering:0xf2bc51,algorithms:0xc0afe8,person:0xffd77e};
 const NODES=[
+ {id:'typescript',name:'TypeScript',type:'技术',group:'engineering',p:[-15,36,-21],description:'具备类型化界面开发、桌面播放器与动作状态机实现能力；关联小星独立桌宠与星图前端。',anchor:'project-xiaoxing'},
+ {id:'xiaoxing',name:'小星桌宠',type:'独立开源项目',group:'engineering',p:[32,25,19],description:'独立开源 Electron 透明视频桌宠，提供16段动作、共享状态机与播放器；支持大小、暂停、散步、托盘恢复和动作包配置，无需星图账号或 API 密钥。',anchor:'project-xiaoxing'},
+ {id:'electron',name:'Electron',type:'技术',group:'engineering',p:[32,-16,26],description:'具备透明桌面窗口、受限 IPC、托盘恢复、本地偏好与窗口边界处理能力。',anchor:'project-xiaoxing'},
+ {id:'motion-video',name:'状态机 / 视频',type:'技术',group:'engineering',p:[-43,14,-8],description:'动作状态机、姿态过渡与透明视频播放，按视频时钟协调移动、暂停及指令切换。',anchor:'project-xiaoxing'},
+ {id:'resume-bert',name:'简历 BERT',type:'离线研究',group:'research',p:[17,40,24],description:'离线简历技能抽取、span资格判断、训练与评测流程；模型尚未通过业务验收，未接入生产。',anchor:'project-xingtu'},
  {id:'jialiang',name:'嘉粮守护',type:'竞赛项目',group:'engineering',p:[-10,35,23],description:'作为团队成员参加粮食库存数量实时在线检测项目，获中国国际大学生创新大赛（2026）省级三等奖；高教主赛道本科生创意组。',anchor:'project-jialiang'},
  {id:'mcm-skill',name:'数模 Skill',type:'开源工具',group:'algorithms',p:[18,34,-3],description:'独立构建数模竞赛全流程Agent Skill与Python/SQLite控制台，维护实验、结论、审查及提交材料证据。',anchor:'project-mcm-skill'},
  {id:'humanize-skill',name:'Humanize Skill',type:'开源工具',group:'engineering',p:[-35,-7,1],description:'独立构建代码与中英文写作成果复核Skill，覆盖代码、写作与交付材料，保护程序行为、技术事实和来源。',anchor:'project-humanize'},
@@ -22,7 +27,7 @@ const NODES=[
  {id:'person',name:'王佳豪',type:'个人',group:'person',p:[0,0,0],description:'河南工业大学计算机科学与技术本科生，开展跨被试脑电研究，参与算法与软件工程项目。',anchor:'summary'},
  {id:'eeg',name:'情感识别科研',type:'研究项目',group:'research',p:[-22,14,6],description:'围绕跨被试脑电情感识别开展研究，掌握 PyTorch、Mamba／状态空间模型与图结构时空建模技术。',anchor:'project-eeg'},
  {id:'aic',name:'多模态检测',type:'竞赛项目',group:'research',p:[-19,-13,-13],description:'城市场景视觉多模态目标检测，涉及 PyTorch、YOLO 与多模态融合，获 AIC 省赛三等奖。',anchor:'project-aic'},
- {id:'xingtu',name:'星图',type:'团队项目',group:'engineering',p:[22,13,-5],description:'负责个人中心、简历与企业信息模块、个人经历三维图谱，以及首页、星河登录动画和品牌统一；承担实验复核、部署迁移与版本发布。项目用于“揭榜挂帅”及第三届“讯飞杯”AI+教育方向参赛。',anchor:'project-xingtu'},
+ {id:'xingtu',name:'星图',type:'团队项目',group:'engineering',p:[22,13,-5],description:'负责个人中心、简历与企业信息模块、个人经历三维图谱，以及首页、星河登录动画和品牌统一；承担实验复核、部署迁移与版本发布。新增连续小星网页交互与媒体优化，另开展尚未上线的离线简历 BERT 试验。项目用于“揭榜挂帅”及第三届“讯飞杯”AI+教育方向参赛。',anchor:'project-xingtu'},
  {id:'secops',name:'Sentinel',type:'个人项目',group:'engineering',p:[-28,-20,13],description:'本地安全研判与防御工具原型，包含公开情报、证据报告、主机基线与告警管理；仍在持续完善。',anchor:'project-secops'},
  {id:'quantum',name:'量子编译',type:'算法项目',group:'algorithms',p:[13,-18,14],description:'使用 Python、Cirq 与 SABRE 进行噪声自适应量子线路布局与路由优化。',anchor:'project-quantum'},
  {id:'modeling',name:'数学建模',type:'竞赛项目',group:'algorithms',p:[2,26,-15],description:'担任高教社杯、APMCM 与华数杯队长，分别研究干扰源定位清除、水质预测评估和导电介质仿真优化；获河南赛区省级一等奖、本科组二等奖及本科生组全国三等奖。',anchor:'project-modeling'},
@@ -37,7 +42,7 @@ const NODES=[
  {id:'sabre',name:'Cirq / SABRE',type:'技术',group:'algorithms',p:[6,-30,6],description:'用于量子线路映射、路由优化与公开题评测。',anchor:'project-quantum'},
  {id:'analysis',name:'时序与仿真',type:'技术',group:'algorithms',p:[1,33,5],description:'用于水质预测评估和导电介质仿真优化等数学建模工作。',anchor:'project-modeling'},
 ];
-const EDGES=[['person','jialiang'],['person','mcm-skill'],['person','humanize-skill'],['mcm-skill','python'],['mcm-skill','modeling'],['humanize-skill','python'],['person','landslide'],['person','changtu'],['person','class'],['landslide','sciencedb'],['landslide','react'],['landslide','fastapi'],['landslide','gis'],['changtu','python'],['changtu','react'],['changtu','gis'],['class','react'],['class','fastapi'],['person','market'],['person','ssvep'],['ssvep','python'],['person','sciencedb'],['xingtu','threejs'],['person','secops'],['secops','python'],['secops','fastapi'],['person','eeg'],['person','aic'],['person','xingtu'],['person','quantum'],['person','modeling'],['eeg','pytorch'],['eeg','mamba'],['eeg','python'],['aic','pytorch'],['aic','yolo'],['xingtu','react'],['xingtu','fastapi'],['xingtu','databases'],['xingtu','docker'],['quantum','python'],['quantum','sabre'],['modeling','python'],['modeling','analysis']];
+const EDGES=[['person','xiaoxing'],['xiaoxing','electron'],['xiaoxing','motion-video'],['xiaoxing','typescript'],['xingtu','typescript'],['xingtu','motion-video'],['xingtu','resume-bert'],['resume-bert','pytorch'],['resume-bert','python'],['person','jialiang'],['person','mcm-skill'],['person','humanize-skill'],['mcm-skill','python'],['mcm-skill','modeling'],['humanize-skill','python'],['person','landslide'],['person','changtu'],['person','class'],['landslide','sciencedb'],['landslide','react'],['landslide','fastapi'],['landslide','gis'],['changtu','python'],['changtu','react'],['changtu','gis'],['class','react'],['class','fastapi'],['person','market'],['person','ssvep'],['ssvep','python'],['person','sciencedb'],['xingtu','threejs'],['person','secops'],['secops','python'],['secops','fastapi'],['person','eeg'],['person','aic'],['person','xingtu'],['person','quantum'],['person','modeling'],['eeg','pytorch'],['eeg','mamba'],['eeg','python'],['aic','pytorch'],['aic','yolo'],['xingtu','react'],['xingtu','fastapi'],['xingtu','databases'],['xingtu','docker'],['quantum','python'],['quantum','sabre'],['modeling','python'],['modeling','analysis']];
 const byId=new Map(NODES.map(n=>[n.id,n]));
 let selected=null,filter='all',paused=reduced.matches,inView=false,raf=0,last=0,draws=0;
 const pauseButton=document.querySelector('#graph-pause');

diff --git a/scripts/TIMELINE.md b/scripts/TIMELINE.md
@@ -1,6 +1,6 @@
 # Growth timeline assets
 
-The site widget and preview screenshots use `assets/timeline-data.json`. Dates may describe a competition, a publication, a deployment, or the date a result was confirmed; keep that distinction in each description. Never add local proof images or credentials to this public data.
+The site widget and preview screenshots use `assets/timeline-data.json`. Use the known date precision for each event; keep offline research distinct from deployed features. Never add local proof images or credentials to this public data.
 
 To regenerate the GitHub previews, install Playwright with a Chromium browser and Pillow in your development environment, then run:
 
